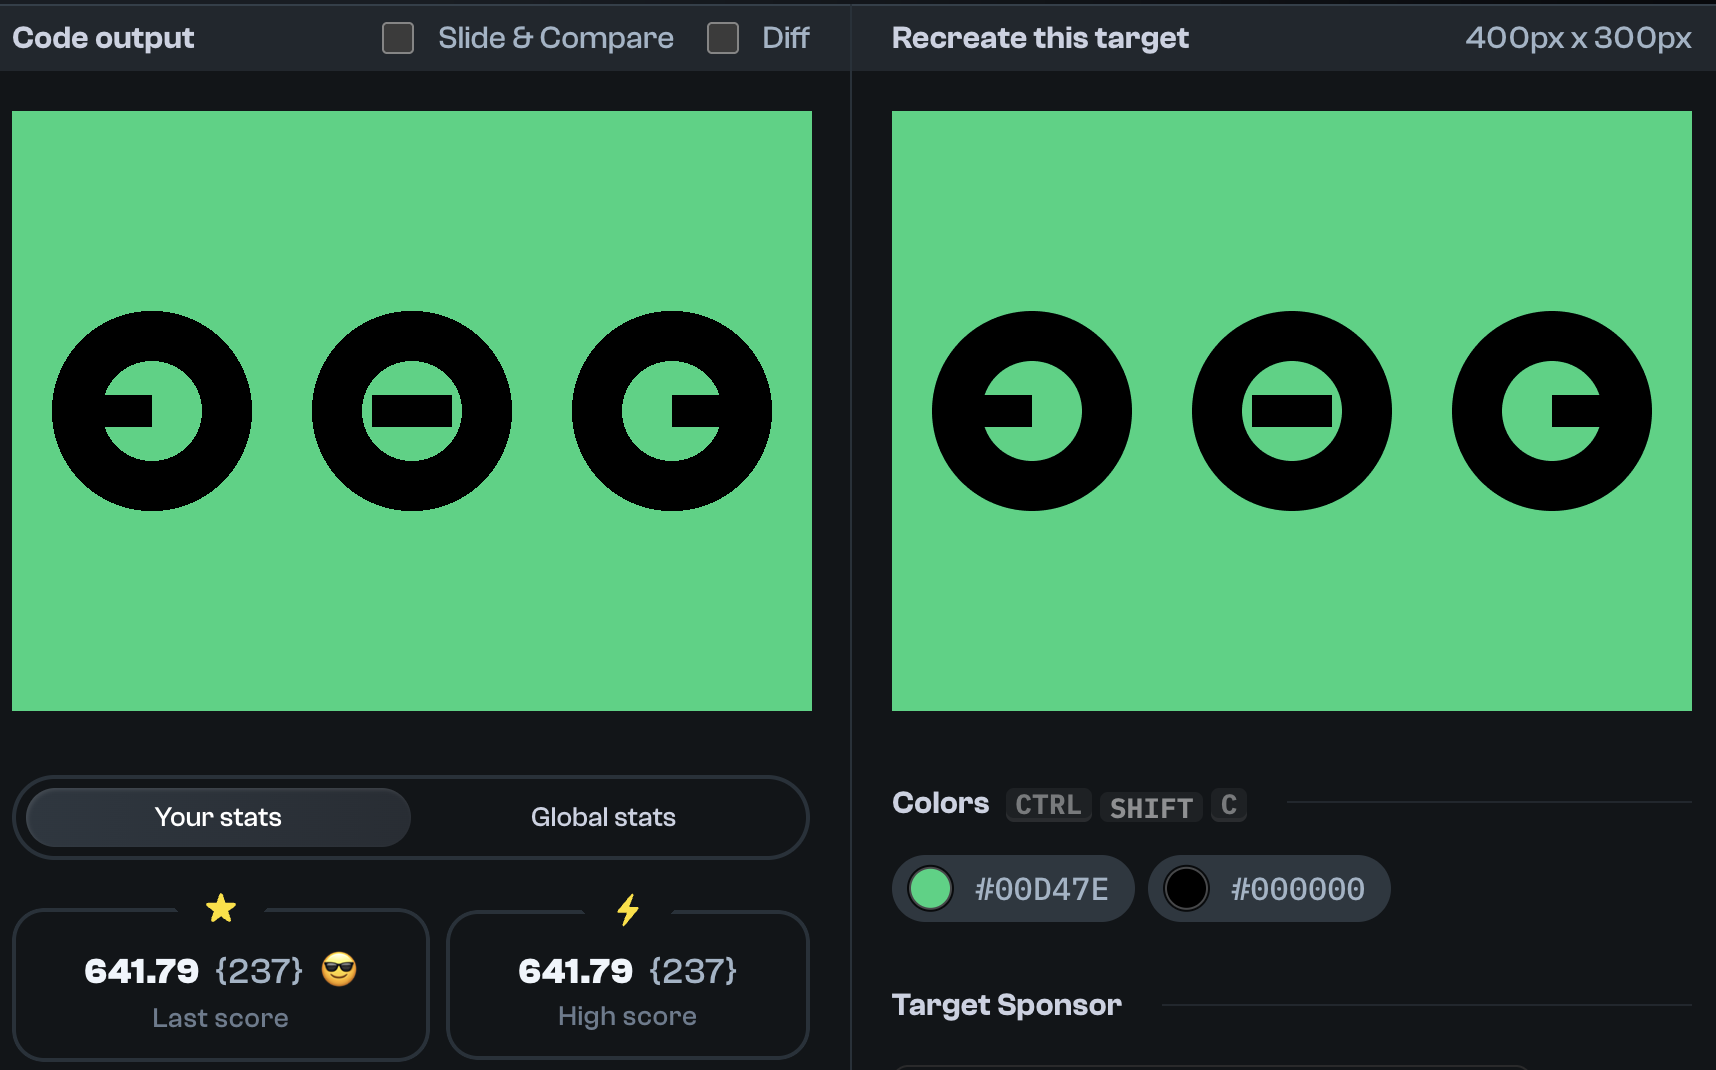
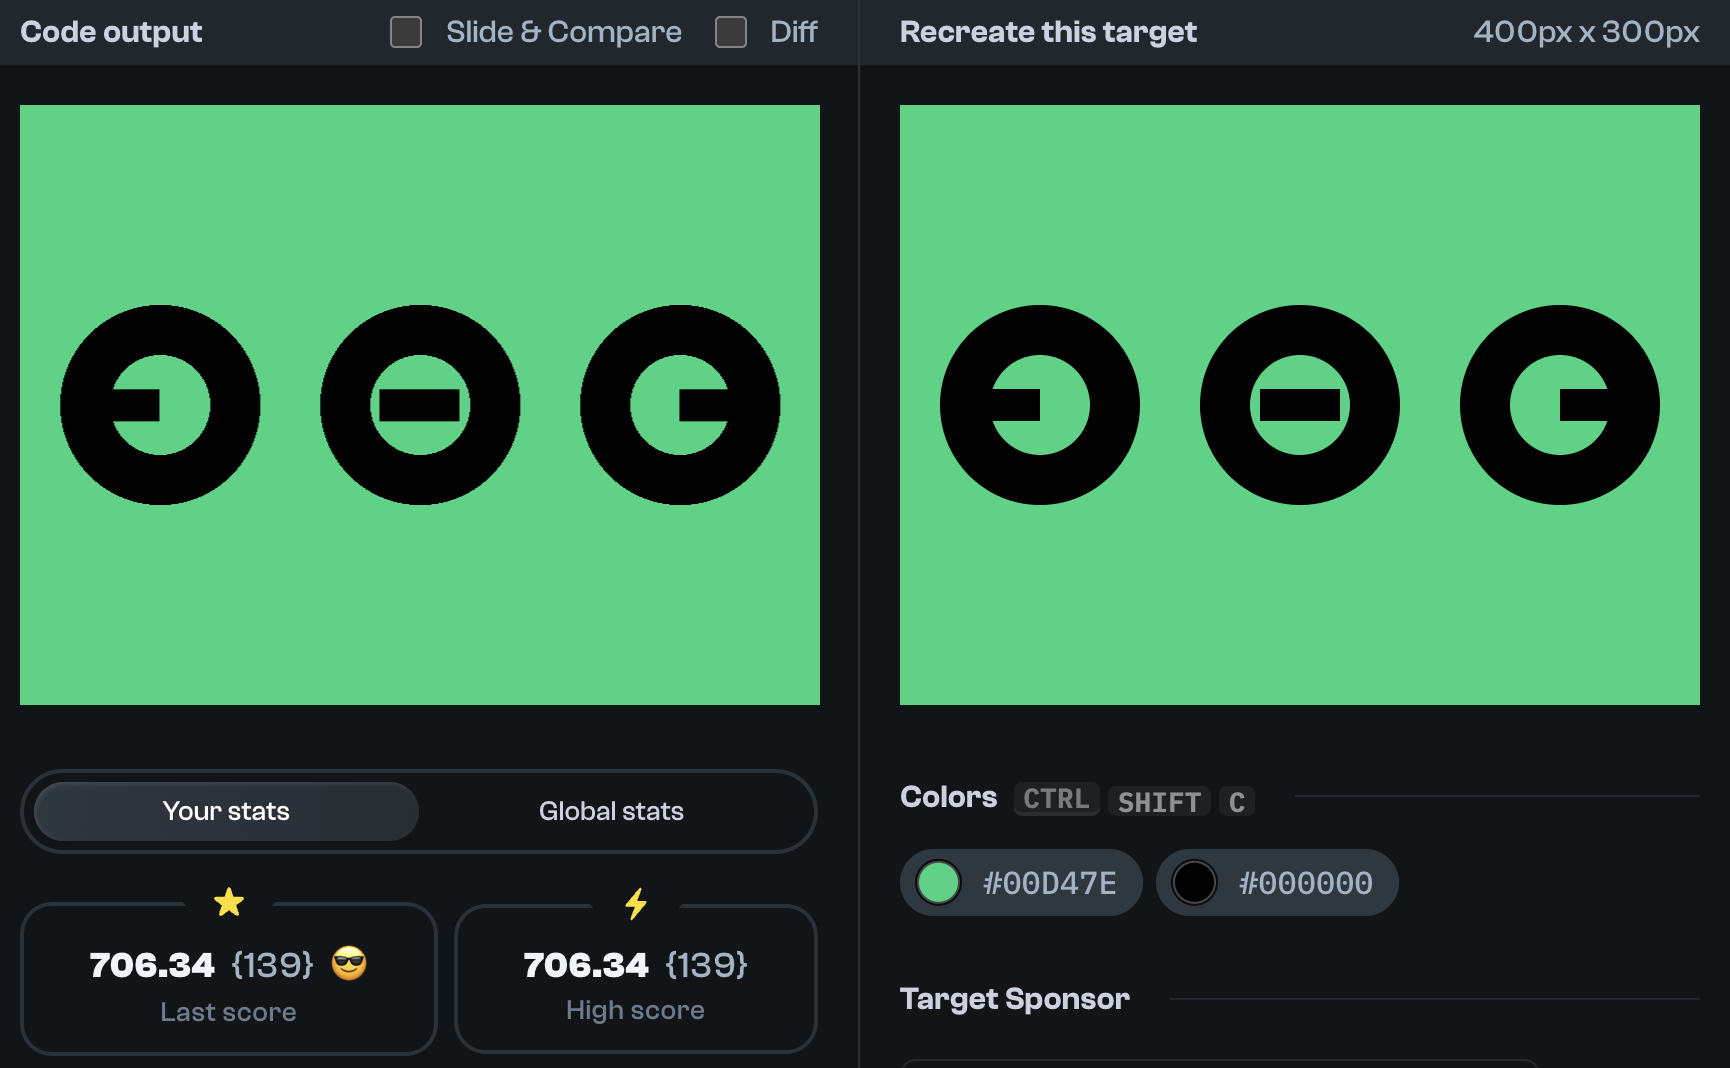
feat: CSS Battle solution for 2025-11-04

diff --git a/daily-targets/2025-11-04/solutions.html b/daily-targets/2025-11-04/solutions.html
@@ -1,3 +1,3 @@
 <!-- Version 1 -->
-<p t=62><p t=192><p t=322><dt s=22 ><dt s=172><dt s=322><style>*{position:fixed;background:var(--b,#00D47E)}dt{padding:8 20;margin:134 attr(s px);--b:#000}p{padding:126 195;--b:radial-gradient(1q at attr(t px),#0000 25px,#000 0 53q,#0000
+<style>*{background:radial-gradient(1q,#0000 25px,#000 0 53q,#00D47E)-3q 0/130px,conic-gradient(at 5ch 1pc,#00D47E 75%,#000 0)23q 142q/50vh
 </style>
